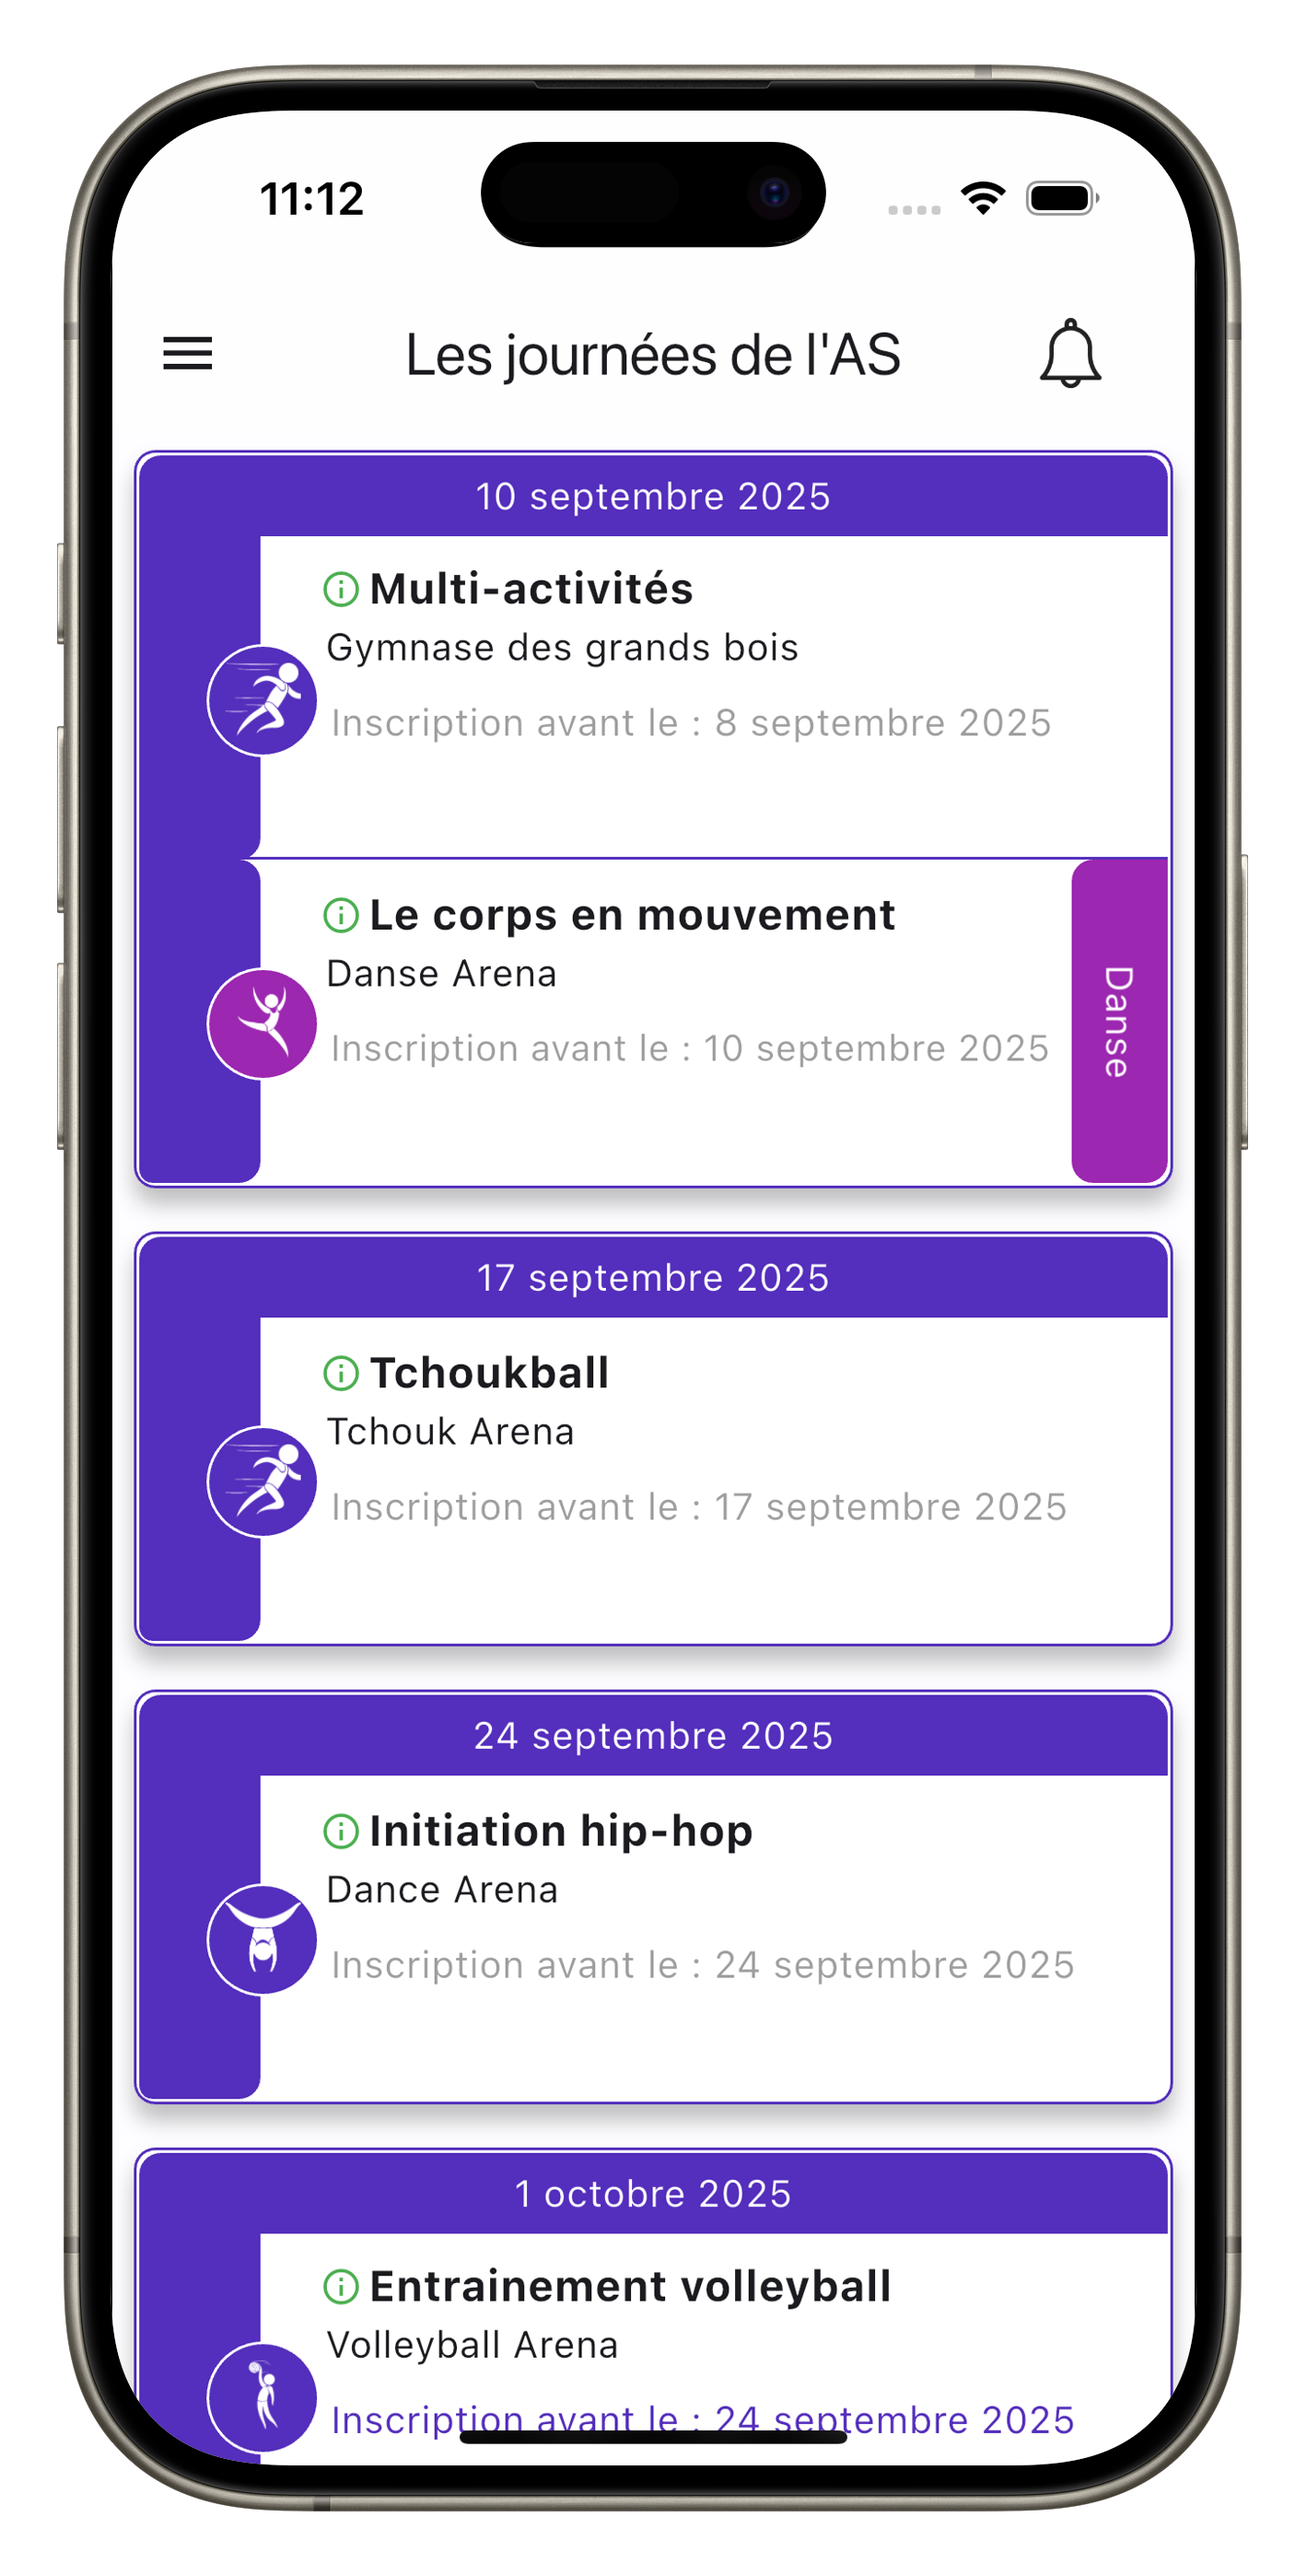
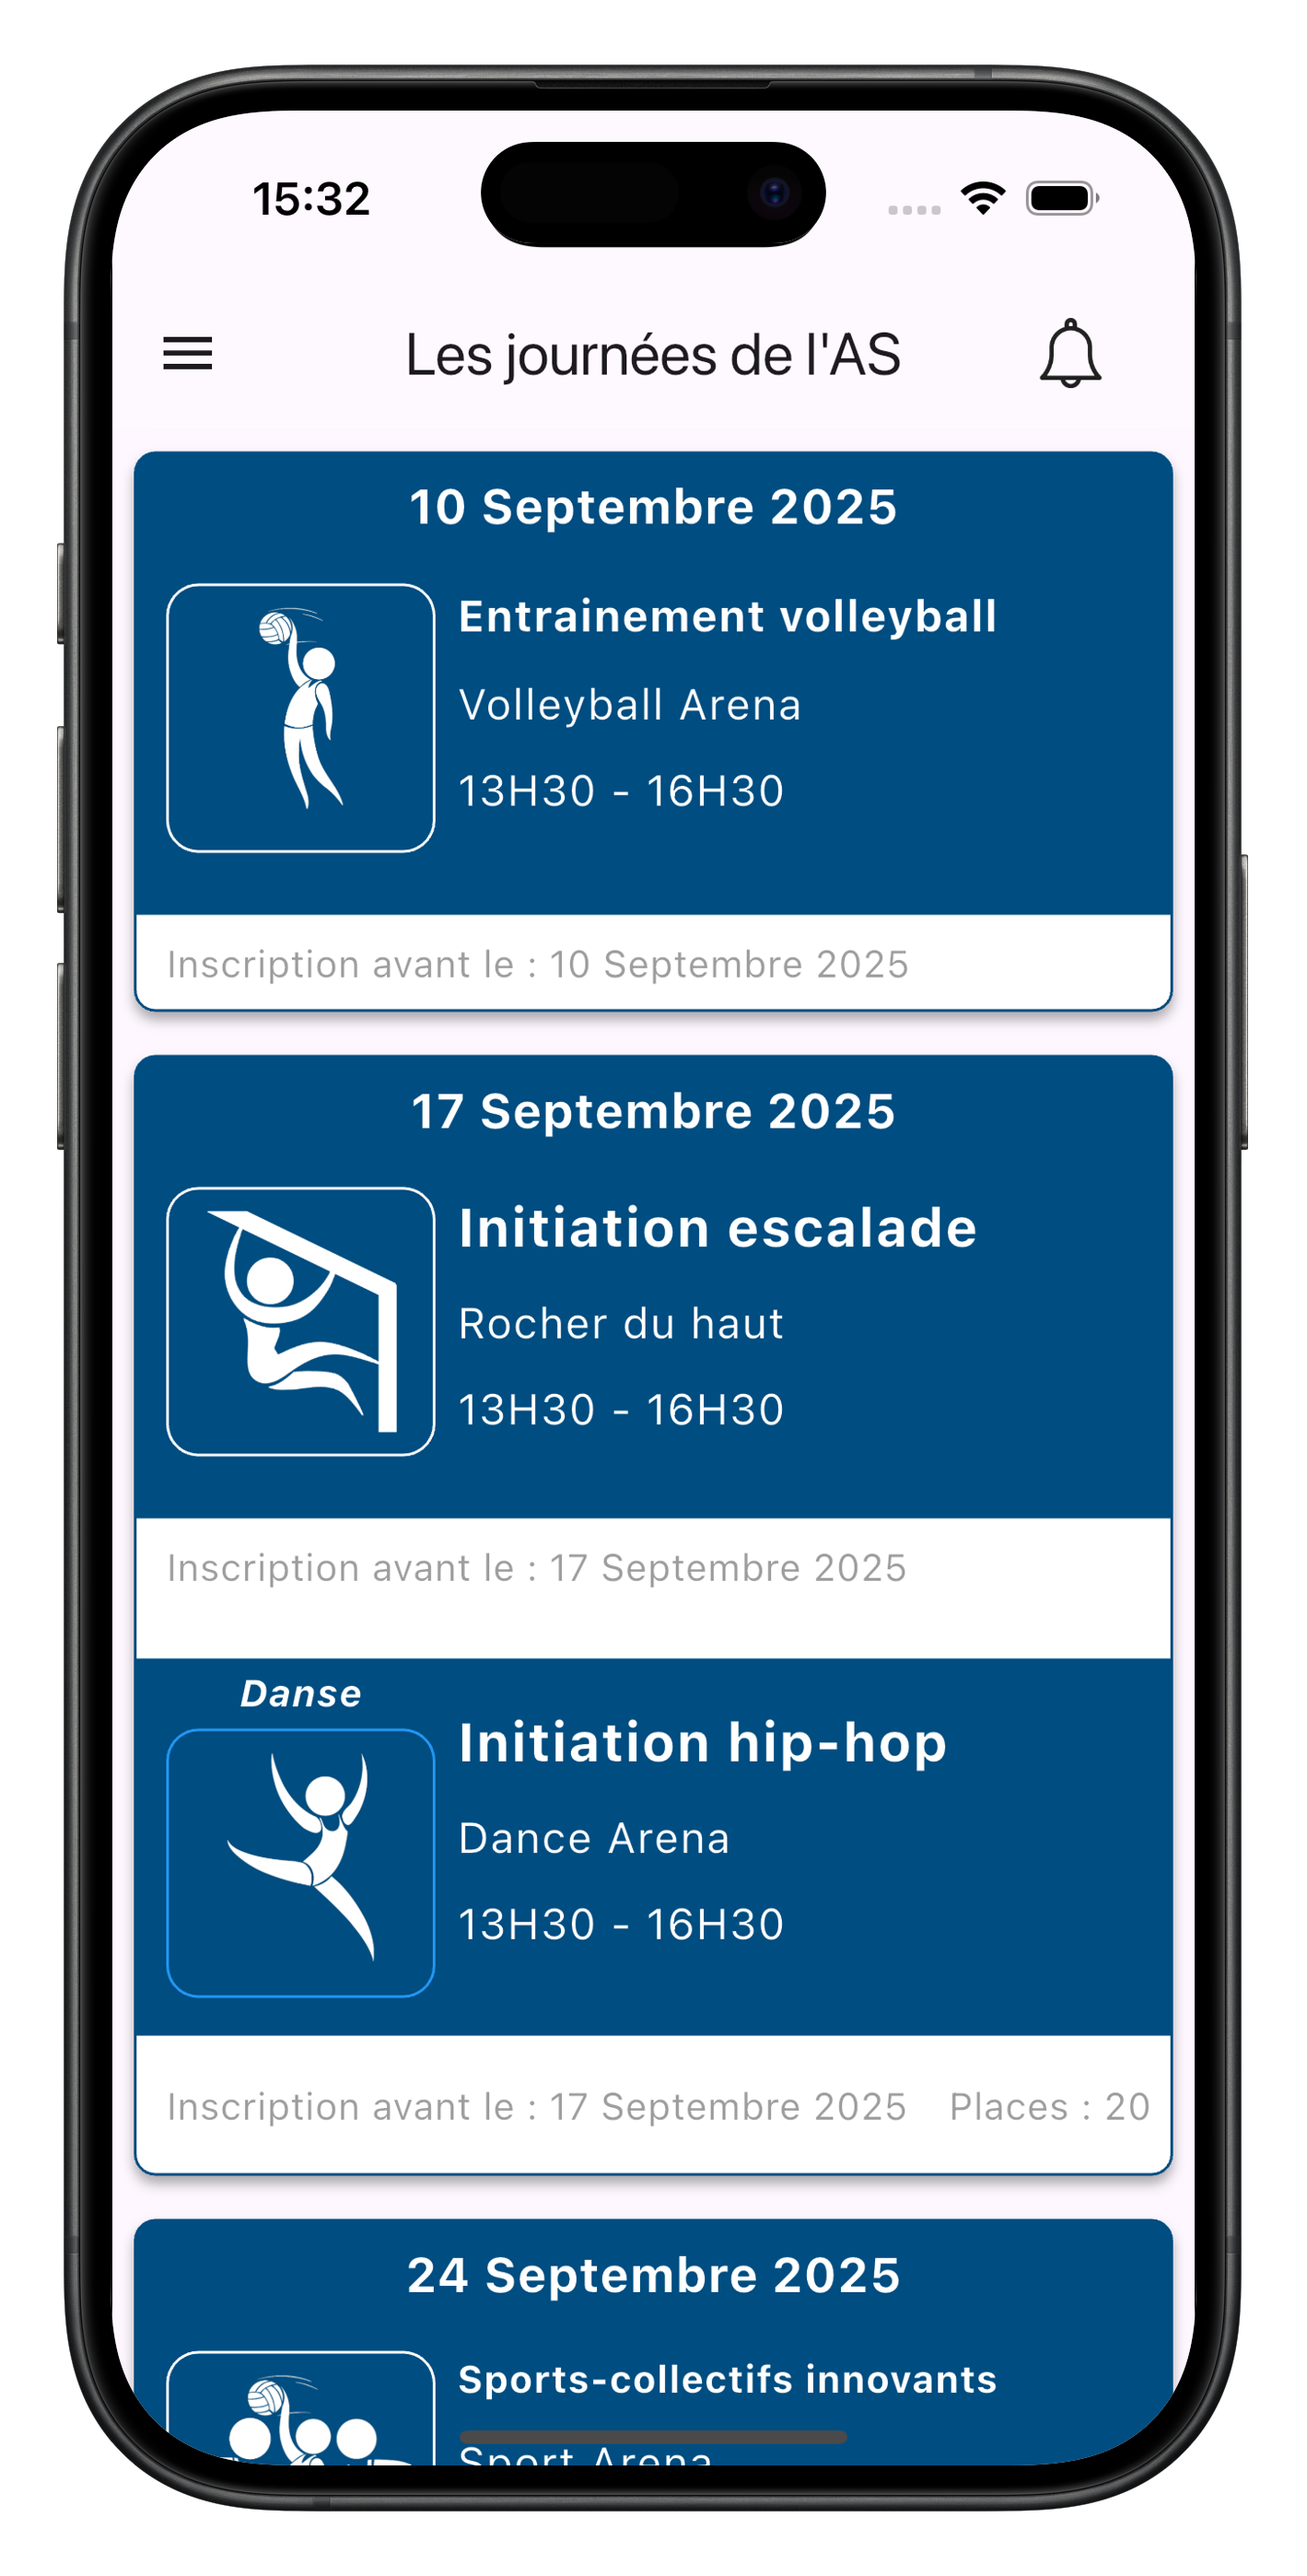
Remplacement image

diff --git a/public/404.html b/public/404.html
@@ -37,7 +37,7 @@
 
 
 
-<link href="/css/custom.css?1767632082" rel="stylesheet">
+<link href="/css/custom.css?1767687244" rel="stylesheet">
 
 
 

diff --git a/public/categories/index.html b/public/categories/index.html
@@ -37,7 +37,7 @@
 
 
 
-<link href="/css/custom.css?1767632082" rel="stylesheet">
+<link href="/css/custom.css?1767687244" rel="stylesheet">
 
 
 

diff --git a/public/contact/index.html b/public/contact/index.html
@@ -37,7 +37,7 @@
 
 
 
-<link href="/css/custom.css?1767632082" rel="stylesheet">
+<link href="/css/custom.css?1767687244" rel="stylesheet">
 
 
 

diff --git a/public/index.html b/public/index.html
@@ -37,7 +37,7 @@
 
 
 
-<link href="/css/custom.css?1767632082" rel="stylesheet">
+<link href="/css/custom.css?1767687244" rel="stylesheet">
 
 
 

diff --git a/public/tags/abonnement/index.html b/public/tags/abonnement/index.html
@@ -37,7 +37,7 @@
 
 
 
-<link href="/css/custom.css?1767632082" rel="stylesheet">
+<link href="/css/custom.css?1767687244" rel="stylesheet">
 
 
 

diff --git a/public/tags/collège/index.html b/public/tags/collège/index.html
@@ -37,7 +37,7 @@
 
 
 
-<link href="/css/custom.css?1767632082" rel="stylesheet">
+<link href="/css/custom.css?1767687244" rel="stylesheet">
 
 
 

diff --git a/public/tags/index.html b/public/tags/index.html
@@ -37,7 +37,7 @@
 
 
 
-<link href="/css/custom.css?1767632082" rel="stylesheet">
+<link href="/css/custom.css?1767687244" rel="stylesheet">
 
 
 

diff --git a/public/tags/tarifs/index.html b/public/tags/tarifs/index.html
@@ -37,7 +37,7 @@
 
 
 
-<link href="/css/custom.css?1767632082" rel="stylesheet">
+<link href="/css/custom.css?1767687244" rel="stylesheet">
 
 
 

diff --git a/public/tarifs/index.html b/public/tarifs/index.html
@@ -37,7 +37,7 @@
 
 
 
-<link href="/css/custom.css?1767632082" rel="stylesheet">
+<link href="/css/custom.css?1767687244" rel="stylesheet">
 
 
 
